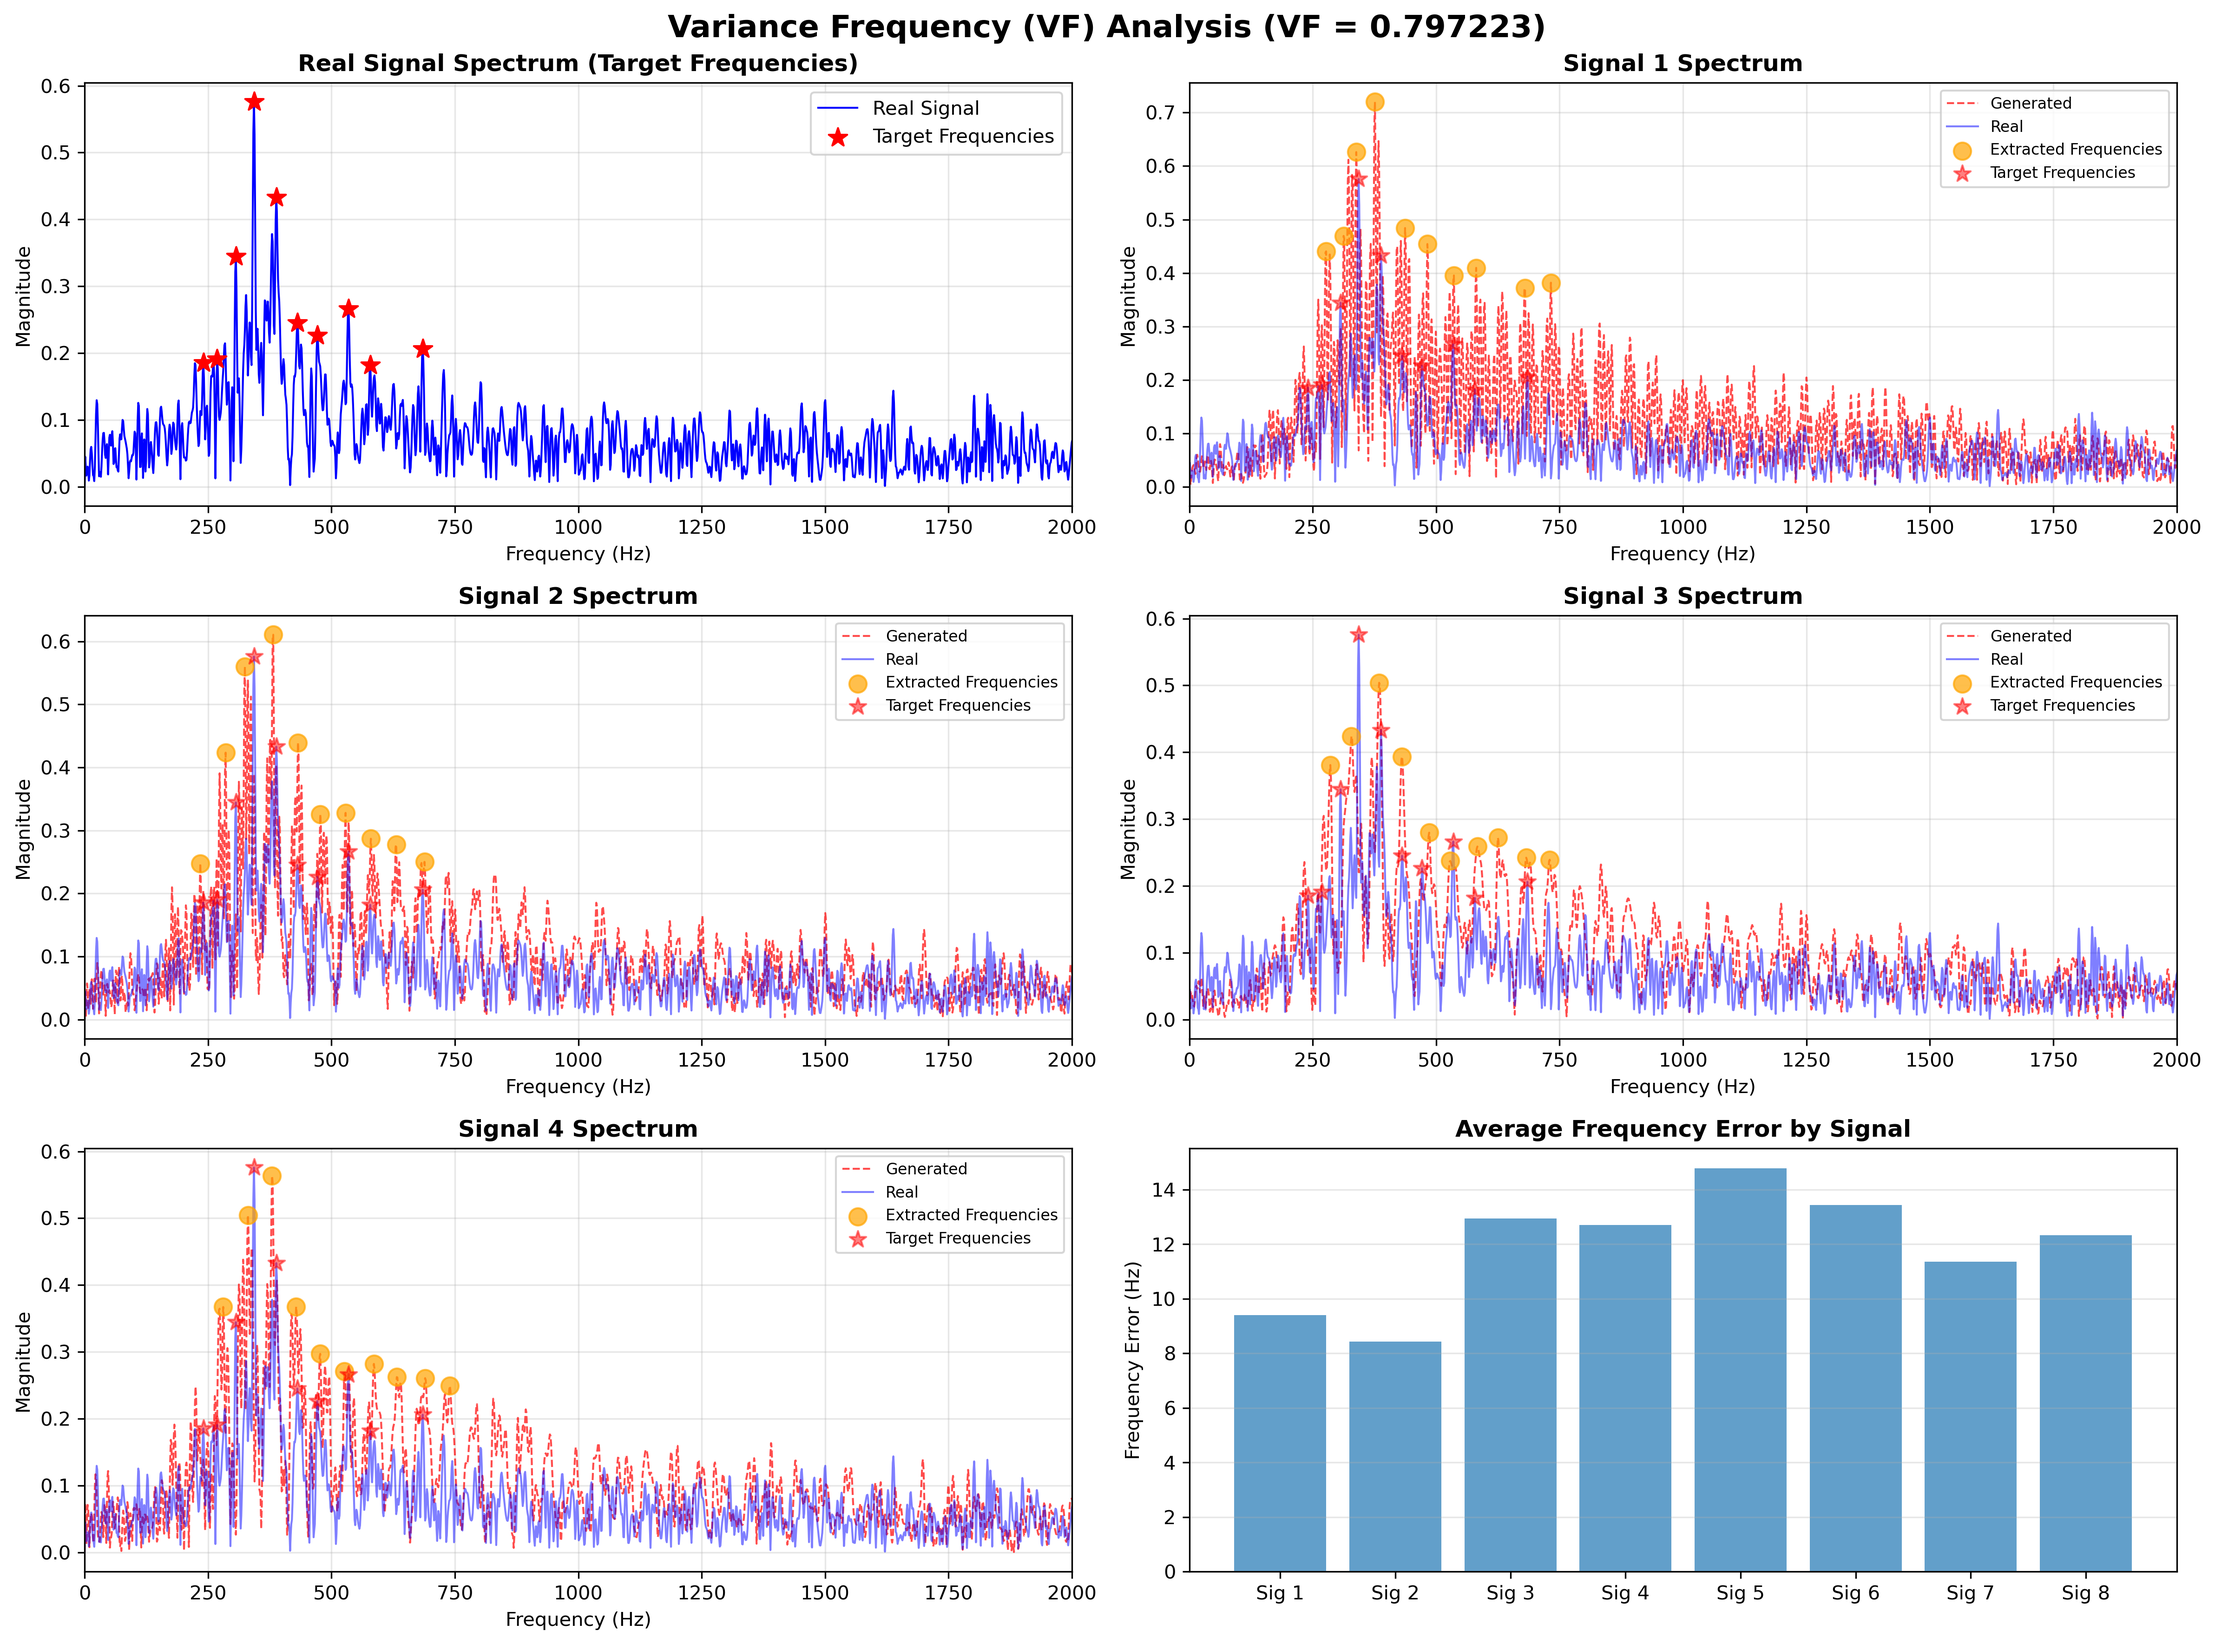
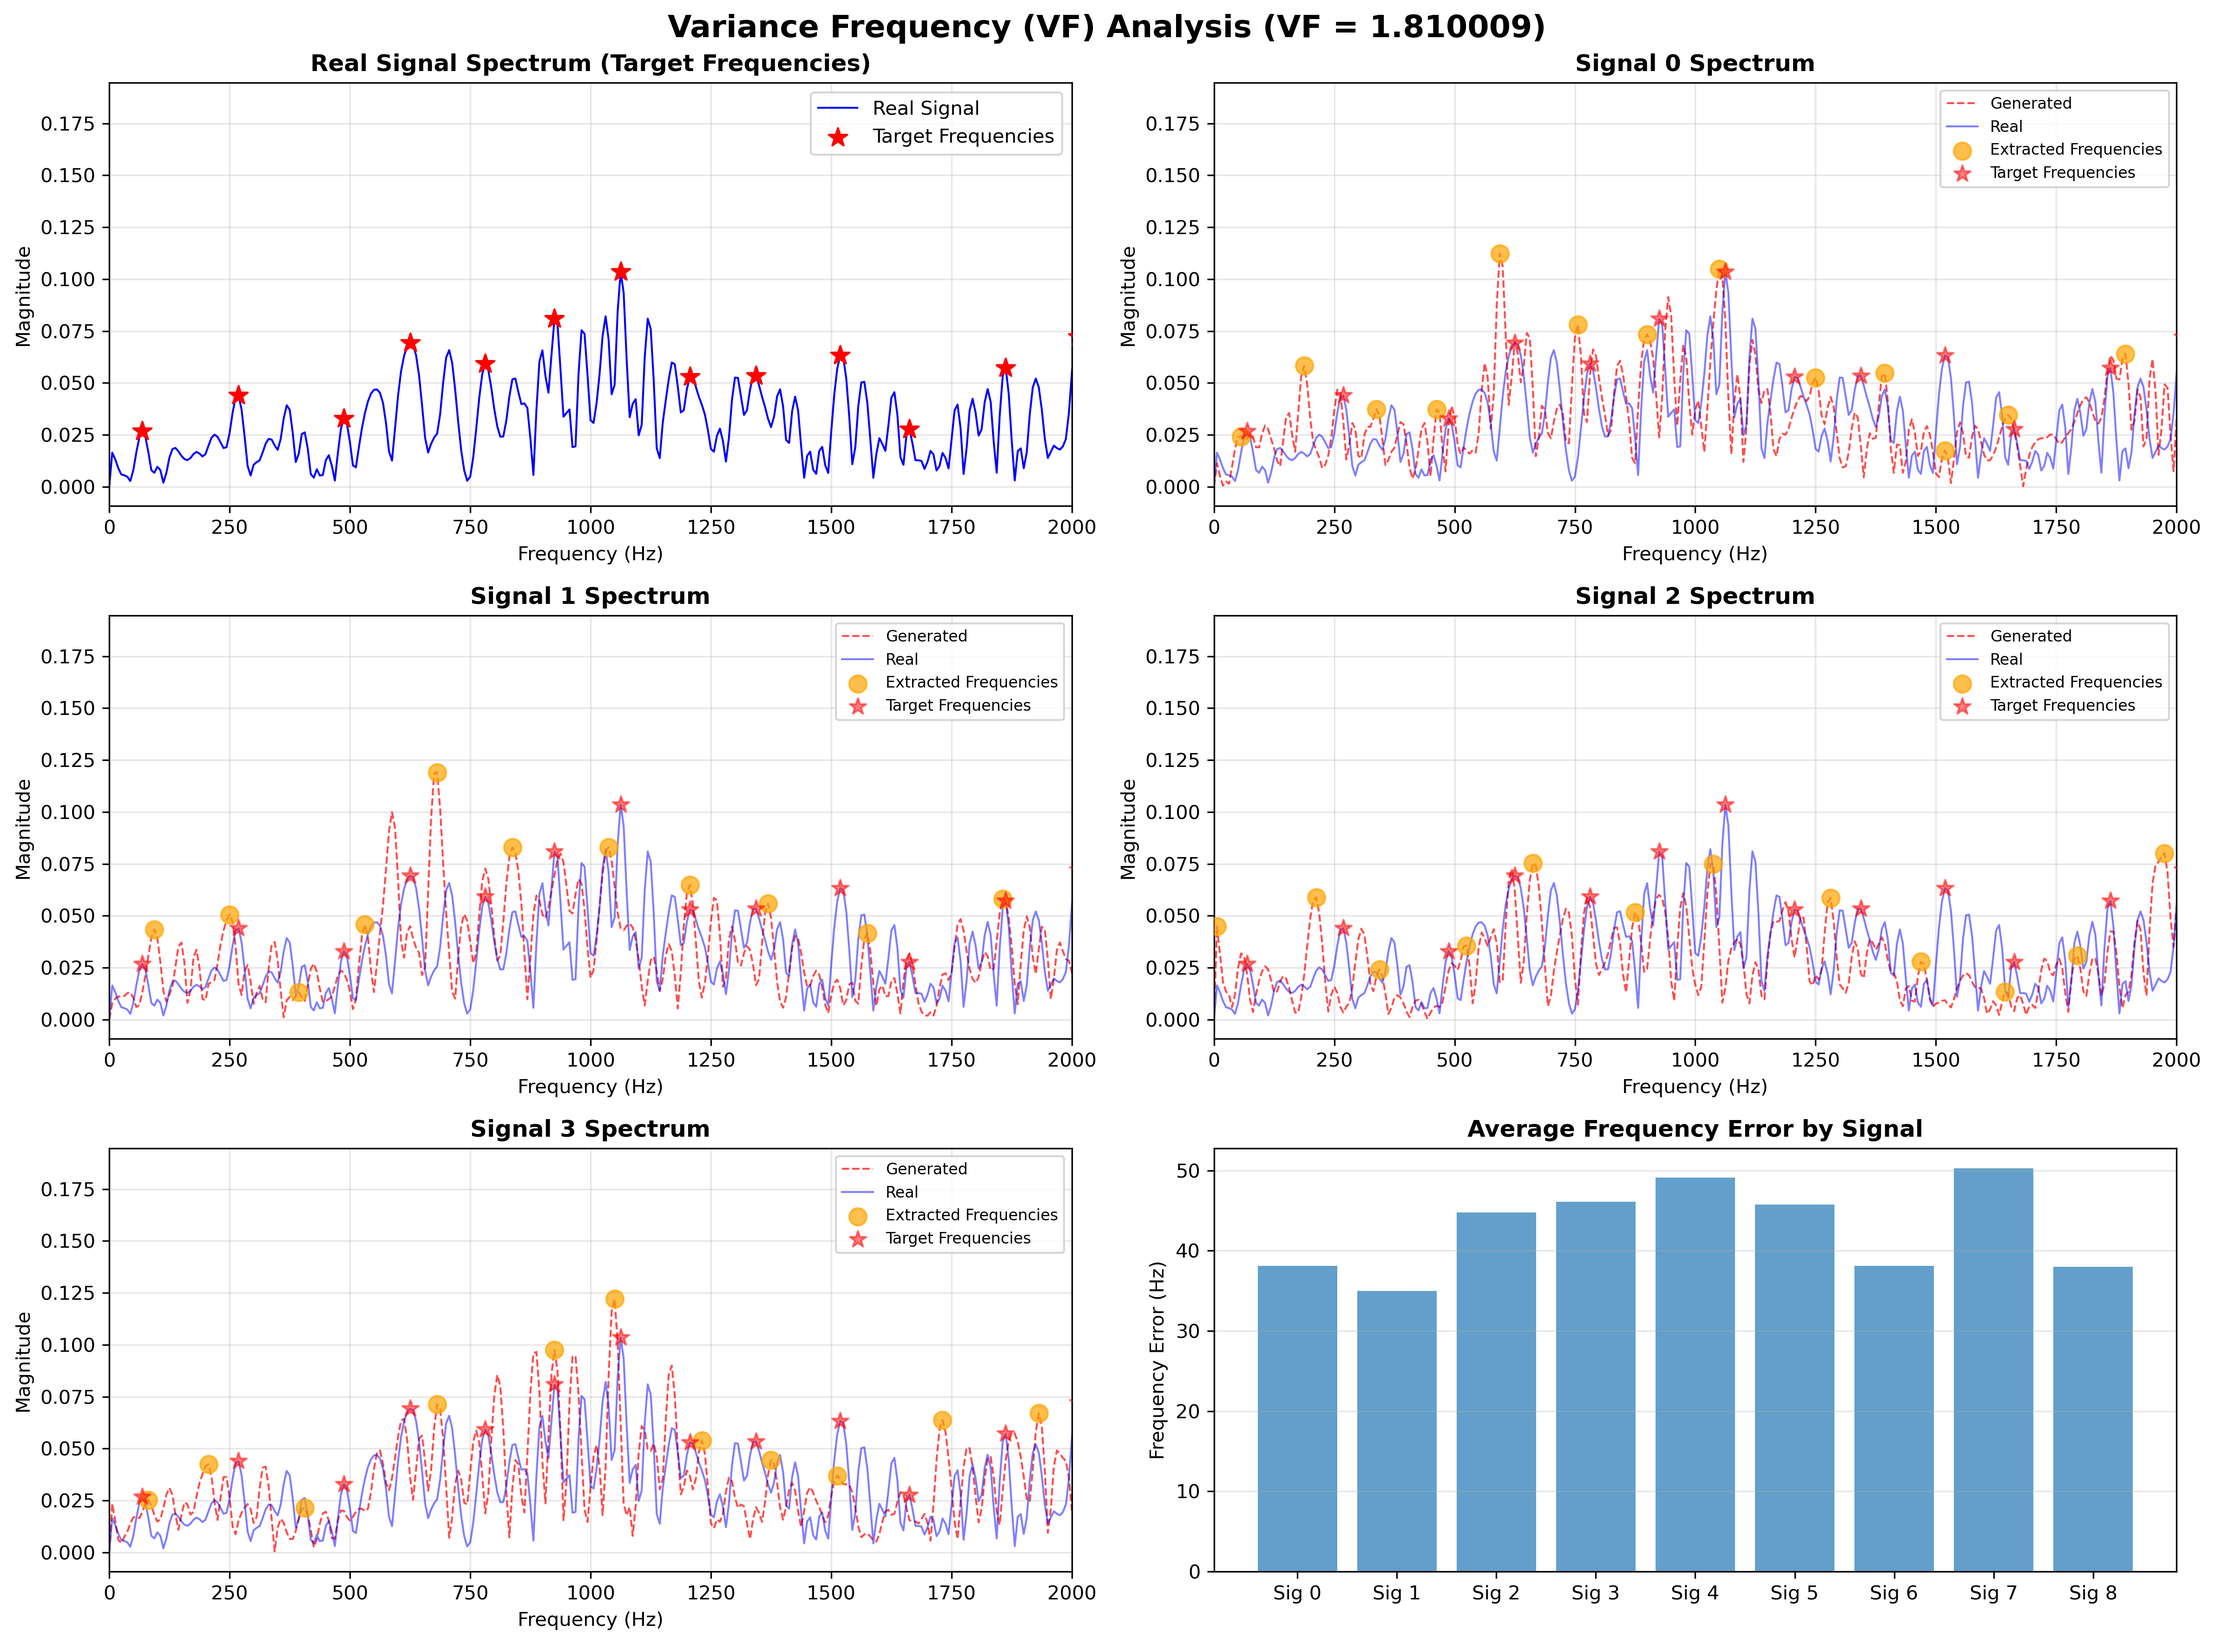
可上传前端的训练版

diff --git a/analyze_vf_metric.py b/analyze_vf_metric.py
@@ -16,7 +16,7 @@ GENERATED_DIR = './generated_samples'
 FS = 25600  # Hz
 START_IDX = 1000 # 确保从稳态区域开始取样 (5000之后)
 END_IDX = 5000
-NUM_PEAKS = 10  # 提取的主要频率峰值数量
+NUM_PEAKS = 100  # 提取的主要频率峰值数量
 FFT_SIZE_MULTIPLIER = 4  # FFT零填充倍数，增加频率分辨率（推荐4-16）
 
 # 辅助函数：从结构体中提取最大的向量
@@ -398,7 +398,7 @@ if __name__ == '__main__':
         ax6.grid(True, alpha=0.3, axis='y')
     
     plt.tight_layout()
-    output_path = './vf_analysis.png'
+    output_path = './vf_analysis10000.png'
     plt.savefig(output_path, dpi=300, bbox_inches='tight')
     print(f'可视化图表已保存到: {output_path}')
     plt.show()
